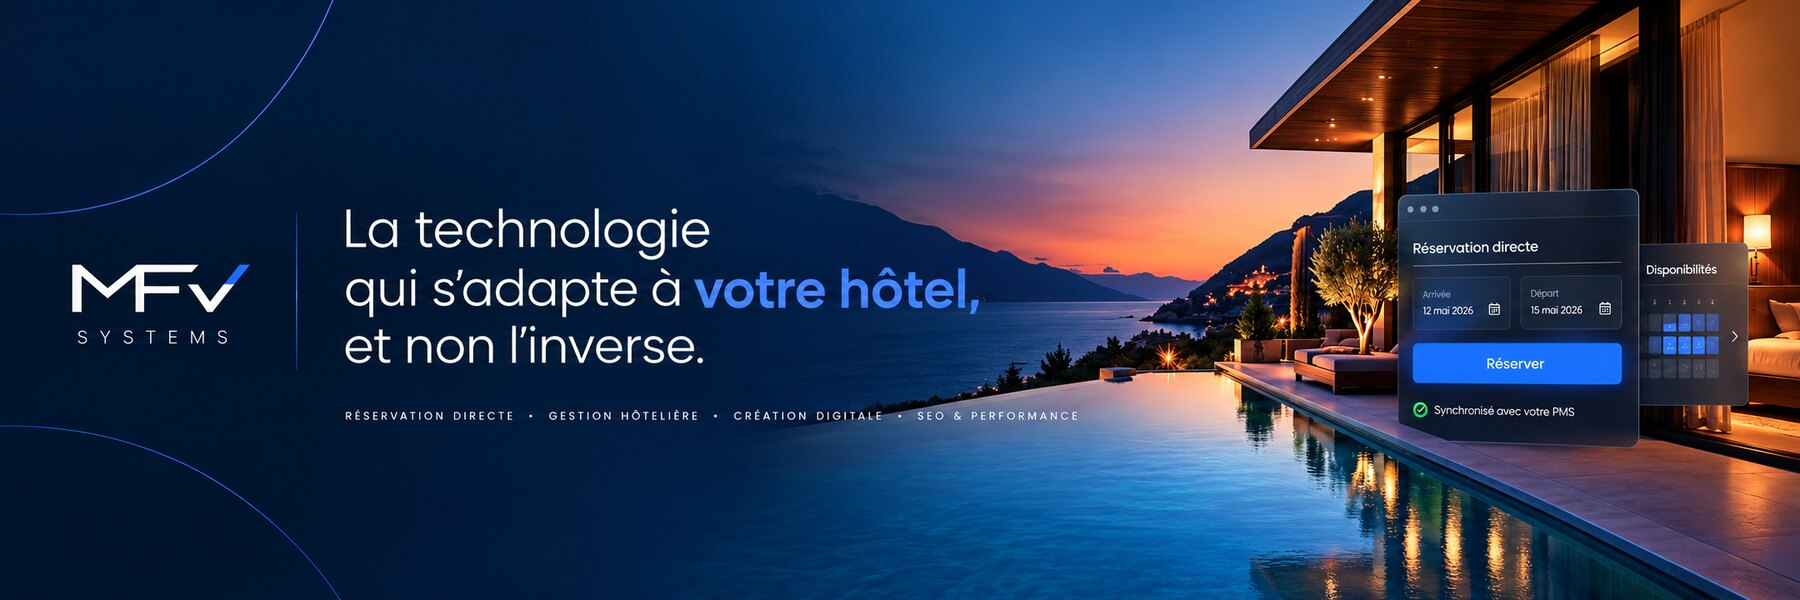
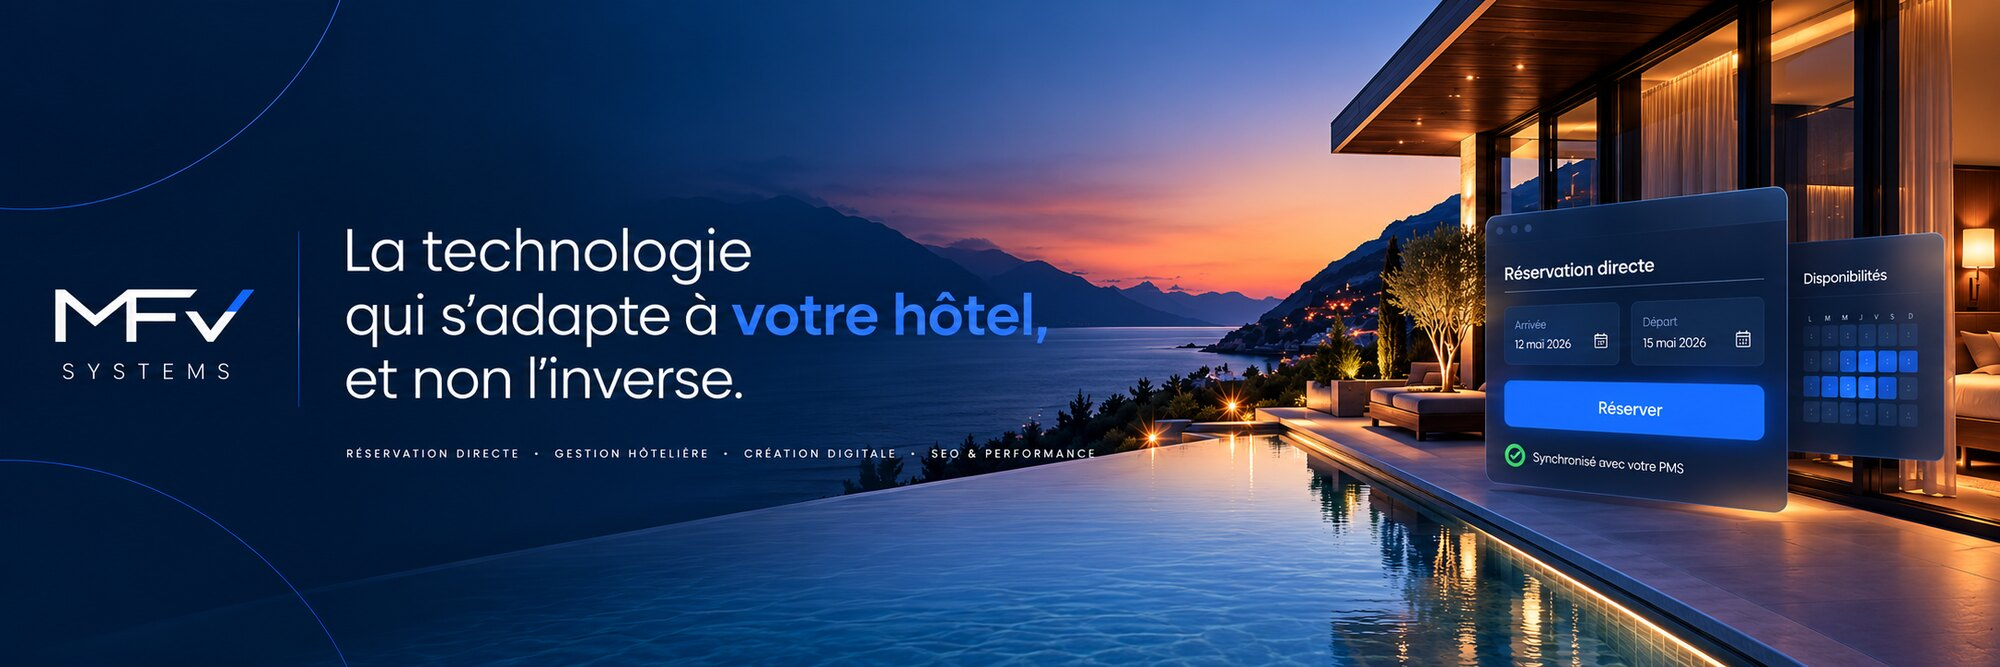
Accueil : nouvelle bannière pleine largeur sous le pied de page

diff --git a/index.html b/index.html
@@ -220,8 +220,8 @@ html,body{overflow-x:hidden}
 <div style="display:flex;flex-wrap:wrap;align-items:center;gap:16px 24px;margin-top:6px"><a href="https://calendar.app.google/pSe63FQdmTLZMeQw7" target="_blank" rel="noopener noreferrer" style="padding:14px 28px;border-radius:999px;background:#FF4920;color:#FFFFFF;font-size:16px;font-weight:500">Réserver une démo de 30 min</a><span style="font-size:16px">contact@mfv-systems.fr</span><a href="/contact" style="padding:13px 26px;border-radius:999px;border:1px solid rgba(255,255,255,.4);font-size:16px">Nous écrire</a></div>
 <div style="margin-top:22px;padding-top:20px;border-top:1px solid rgba(255,255,255,.16);display:flex;flex-wrap:wrap;gap:14px 40px;align-items:center;justify-content:space-between"><span style="font-size:22px;letter-spacing:-.01em"><b style="font-weight:700">MFV</b> <span style="color:#A9B2E0">systems</span></span><nav style="display:flex;flex-wrap:wrap;gap:10px 22px;font-size:15px"><a href="/produits" style="color:#A9B2E0">Le produit</a><a href="/methode" style="color:#A9B2E0">Notre méthode</a><a href="/equipe" style="color:#A9B2E0">L'équipe</a><a href="/faq" style="color:#A9B2E0">FAQ</a><a href="/contact" style="color:#A9B2E0">Contact</a></nav></div>
 <p style="margin:0;padding-top:16px;border-top:1px solid rgba(255,255,255,.16);font-size:12.5px;line-height:1.6;color:#A9B2E0;max-width:900px">MFV Systems, SAS en cours d'immatriculation. Siège&nbsp;: 8 rue Jean Richepin, 75116 Paris. Direction&nbsp;: Yassmine Meyer et Thomas Finaz de Villaine, cofondateurs. Contact&nbsp;: contact@mfv-systems.fr. SIRET communiqué dès l'immatriculation. Hébergeur&nbsp;: Vercel Inc.<br><a href="/mentions-legales" style="text-decoration:underline">Mentions légales</a> · <a href="/confidentialite" style="text-decoration:underline">Politique de confidentialité</a></p>
-<img class="foot-banner" src="/assets/banniere-mfv.jpg" alt="MFV Systems, la technologie qui s'adapte à votre hôtel, et non l'inverse" width="1800" height="600" loading="lazy" style="display:block;width:100%;max-width:900px;height:auto;margin:10px auto 0;border-radius:18px">
 </div>
+<img class="foot-banner" src="/assets/banniere-mfv.jpg" alt="MFV Systems, la technologie qui s'adapte à votre hôtel, et non l'inverse" width="2000" height="667" loading="lazy" style="display:block;width:calc(100% + 160px);max-width:none;height:auto;margin:34px -80px -30px">
 </footer>
 
 </div>
